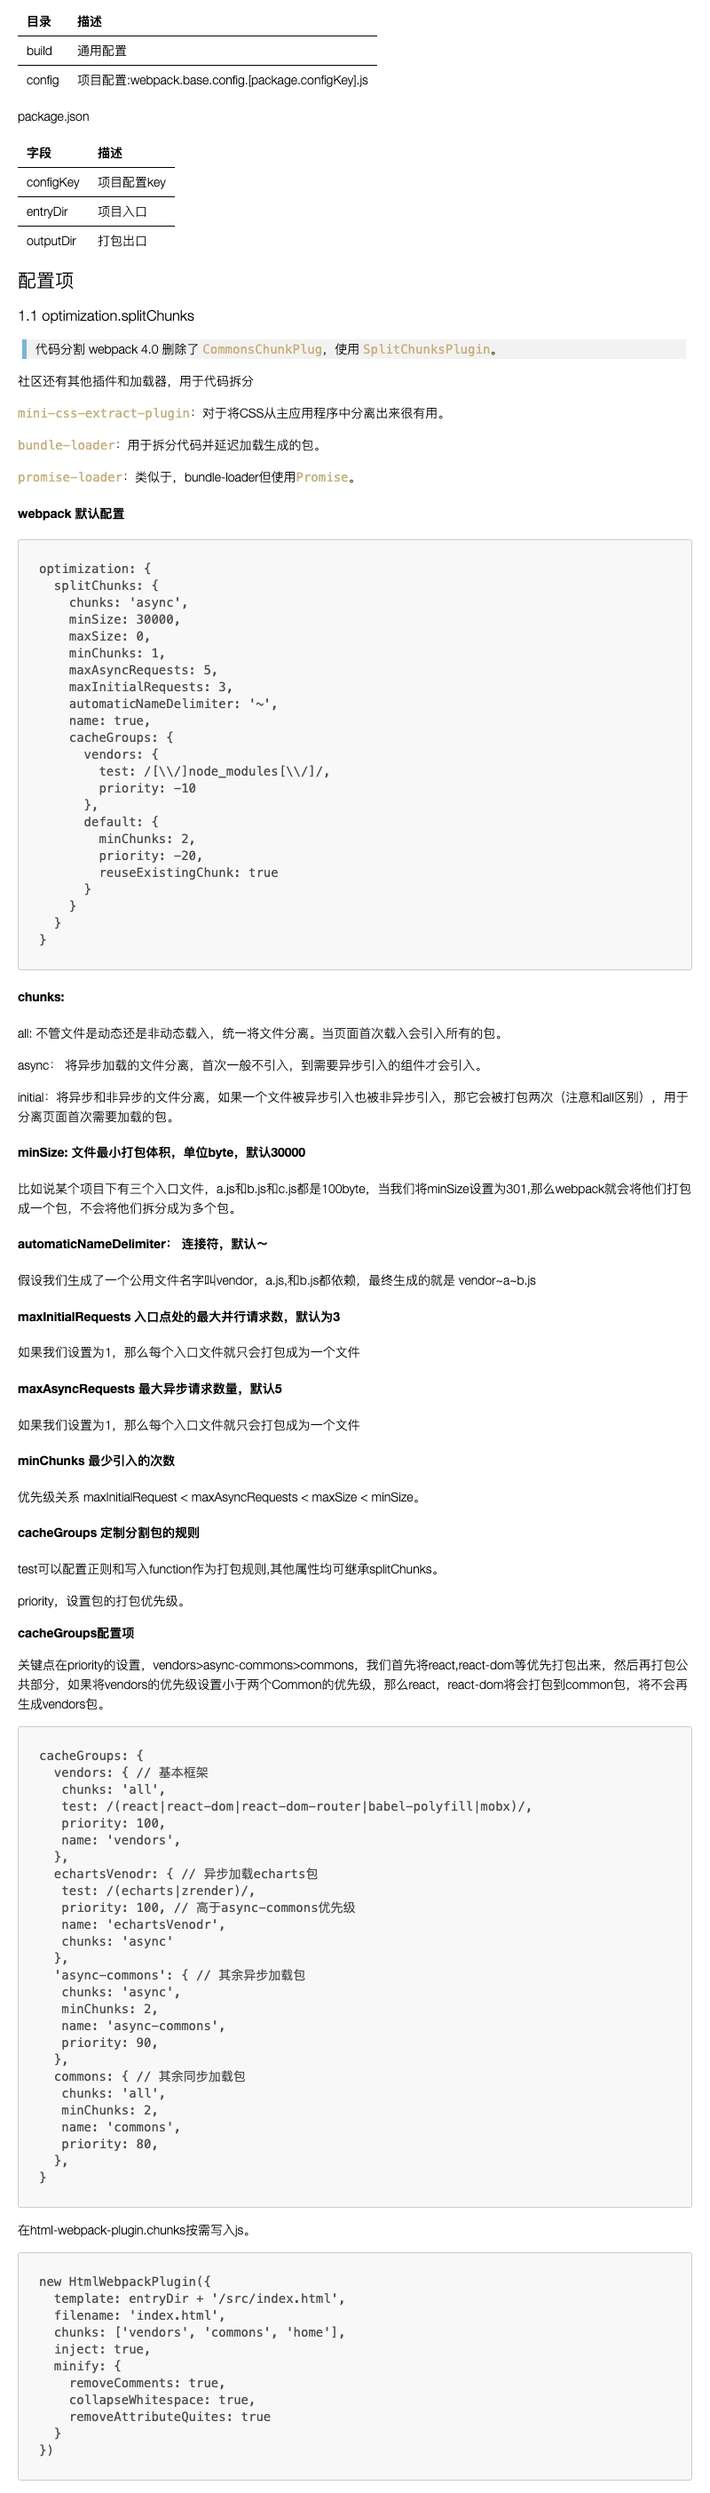
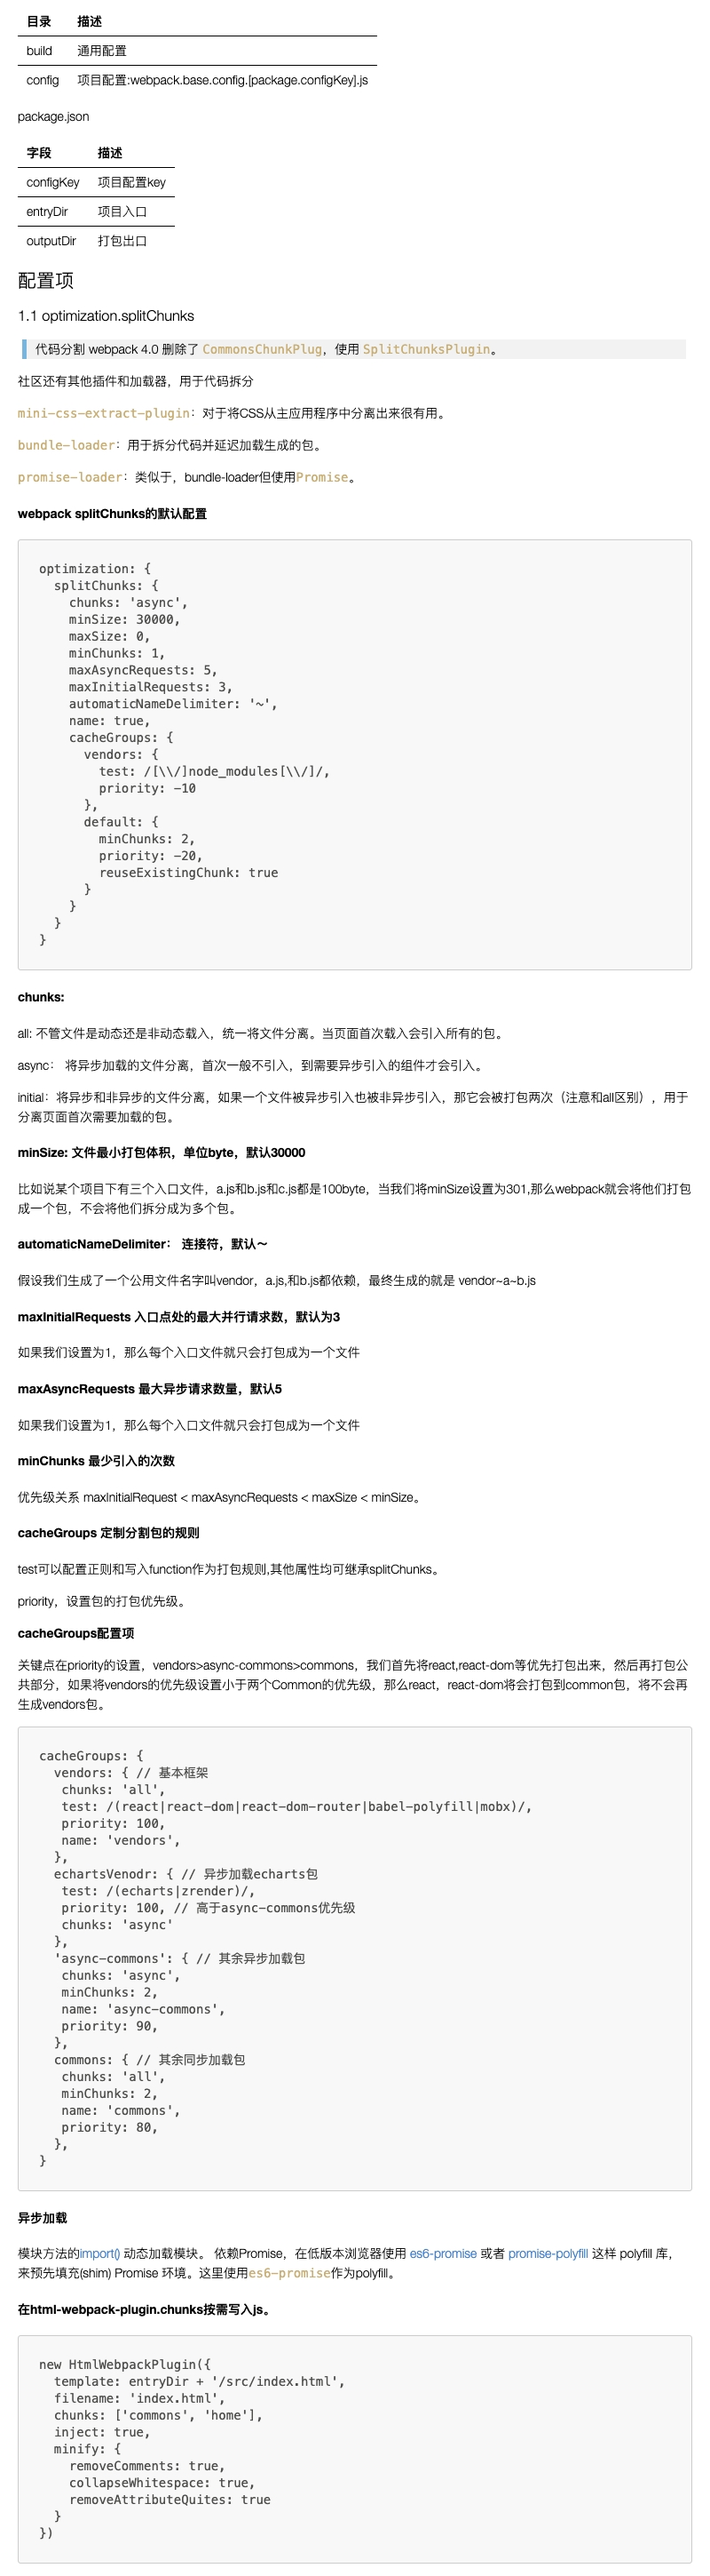
import 动态加载模块

Changed region(s): [[0.0312, 0.0, 0.9688, 0.9922], [0.9375, 0.4341, 0.9688, 0.4651]]

diff --git a/config/webpack.base.config.echarts.js b/config/webpack.base.config.echarts.js
@@ -11,10 +11,10 @@ const outputDir = path.resolve(__dirname, '..' + package.outputDir)
 
 const config = {
   entry: {
-    'pie1': entryDir + '/src/js/echarts.pie1.js',
+    // 'pie1': entryDir + '/src/js/echarts.pie1.js',
     'pie2': entryDir + '/src/js/echarts.pie2.js',
-    'pie3': entryDir + '/src/js/echarts.pie3.js',
-    'pie4': entryDir + '/src/js/echarts.pie4.js',
+    'pie3': entryDir + '/src/js/echarts.pie2.1.js',
+    'pie4': entryDir + '/src/js/echarts.pie2.2.js',
   },
   output: {
     path: outputDir,
@@ -28,7 +28,7 @@ const config = {
     new HtmlWebpackPlugin({
       template: entryDir + '/src/index-pie1.html',
       filename: 'index.html',
-      chunks: ['echartsVenodr', 'pie1'],
+      chunks: ['commons','pie2'],
       inject: true,
       minify: {
         removeComments: true,
@@ -51,13 +51,19 @@ if (mode === 'production') {
       cacheGroups: {
         echartsVenodr: { // 异步加载echarts包
           test: /(echarts|zrender)/,
-          priority: 100, // 高于async-commons优先级
-          name: 'echartsVenodr',
-          chunks: 'all'
+          priority: 100, // 高于commons优先级
+          // name: 'echartsVenodr',
+          chunks: 'async'
         },
-        vendors: {
-          test: /[\\/]node_modules[\\/]/,
-          priority: 90
+        // vendors: {
+        //   test: /[\\/]node_modules[\\/]/,
+        //   priority: 90
+        // },
+        commons: { // 其余同步加载包
+          chunks: 'all',
+          minChunks: 2,
+          name: 'commons',
+          priority: 80,
         },
         // default: {
         //     minChunks: 2,

diff --git a/echarts/src/js/echarts.pie1.js b/echarts/src/js/echarts.pie1.js
@@ -1,20 +1,20 @@
-var echarts = require('echarts');
-
-// 基于准备好的dom，初始化echarts实例
-var myChart = echarts.init(document.getElementById('main'));
-// 绘制图表
-myChart.setOption({
-  title: {
-    text: 'ECharts 入门示例'
-  },
-  tooltip: {},
-  xAxis: {
-    data: ['衬衫', '羊毛衫', '雪纺衫', '裤子', '高跟鞋', '袜子']
-  },
-  yAxis: {},
-  series: [{
-    name: '销量',
-    type: 'bar',
-    data: [5, 20, 36, 10, 10, 20]
-  }]
-});
+import('echarts').then((echarts) => {
+  // 基于准备好的dom，初始化echarts实例
+  var myChart = echarts.init(document.getElementById('main'));
+  // 绘制图表
+  myChart.setOption({
+    title: {
+      text: 'ECharts 入门示例'
+    },
+    tooltip: {},
+    xAxis: {
+      data: ['衬衫', '羊毛衫', '雪纺衫', '裤子', '高跟鞋', '袜子']
+    },
+    yAxis: {},
+    series: [{
+      name: '销量',
+      type: 'bar',
+      data: [5, 20, 36, 10, 10, 20]
+    }]
+  });
+})

diff --git a/build/webpack.pro.config.js b/build/webpack.pro.config.js
@@ -14,7 +14,7 @@ module.exports = {
     },
     plugins: [
         new CleanWebpackPlugin(),
-        // new BundleAnalyzerPlugin(), // 打包结果可视化
+        new BundleAnalyzerPlugin(), // 打包结果可视化
     ],
     stats: {
         children: false,

diff --git a/README.md b/README.md
@@ -23,7 +23,7 @@ package.json
 
 `promise-loader`：类似于，bundle-loader但使用`Promise`。
 
-#### webpack 默认配置
+#### webpack splitChunks的默认配置
 ```
 optimization: {
   splitChunks: {
@@ -97,7 +97,6 @@ cacheGroups: {
   echartsVenodr: { // 异步加载echarts包
    test: /(echarts|zrender)/,
    priority: 100, // 高于async-commons优先级
-   name: 'echartsVenodr',
    chunks: 'async'
   },
   'async-commons': { // 其余异步加载包
@@ -115,12 +114,16 @@ cacheGroups: {
 }
 ```
 
-在html-webpack-plugin.chunks按需写入js。
+#### 异步加载
+
+模块方法的[import()](https://webpack.docschina.org/api/module-methods/#import-) 动态加载模块。 依赖Promise，在低版本浏览器使用 [es6-promise](https://github.com/stefanpenner/es6-promise) 或者 [promise-polyfill](https://github.com/taylorhakes/promise-polyfill) 这样 polyfill 库，来预先填充(shim) Promise 环境。这里使用`es6-promise`作为polyfill。
+
+#### 在html-webpack-plugin.chunks按需写入js。
 ```
 new HtmlWebpackPlugin({
   template: entryDir + '/src/index.html',
   filename: 'index.html',
-  chunks: ['vendors', 'commons', 'home'],
+  chunks: ['commons', 'home'],
   inject: true,
   minify: {
     removeComments: true,
